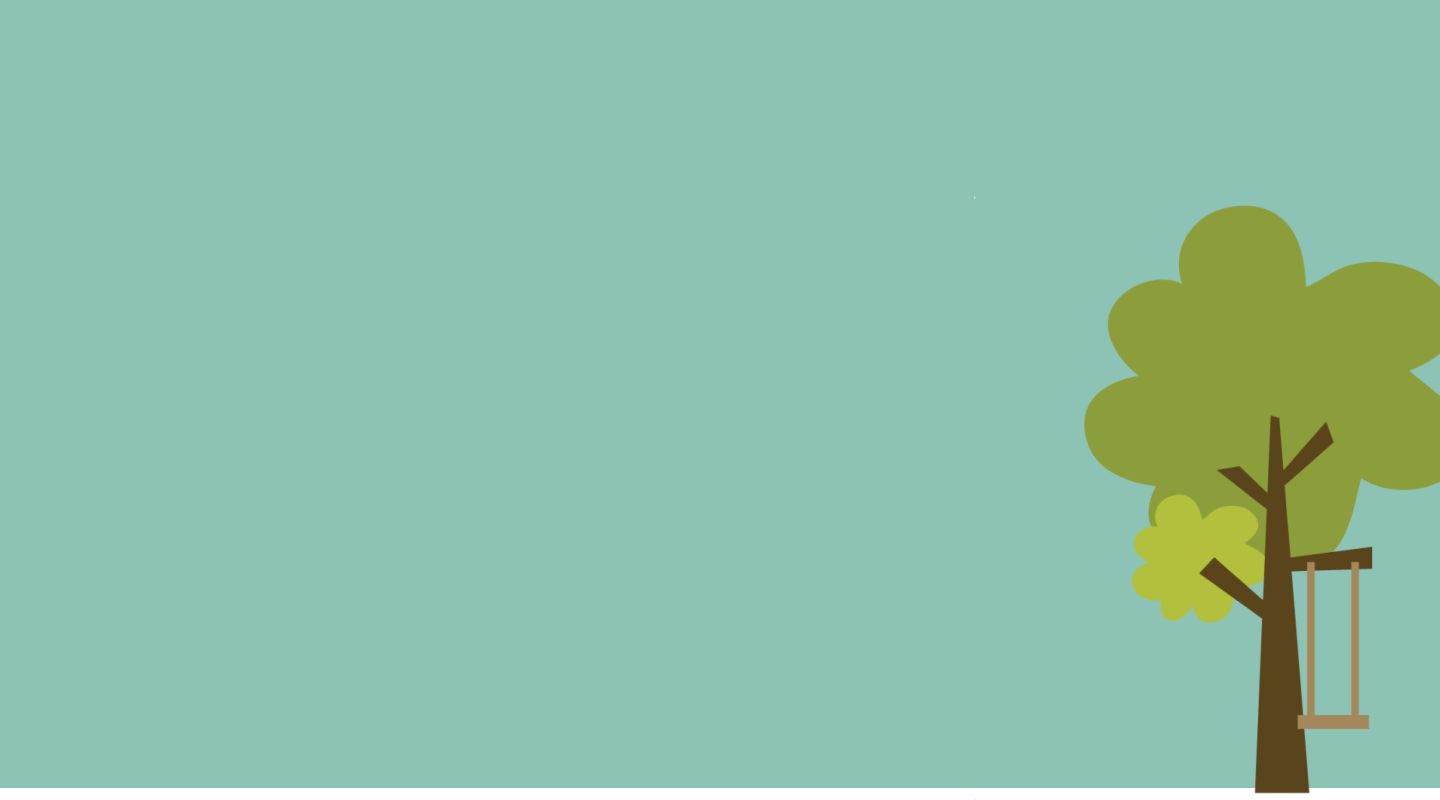
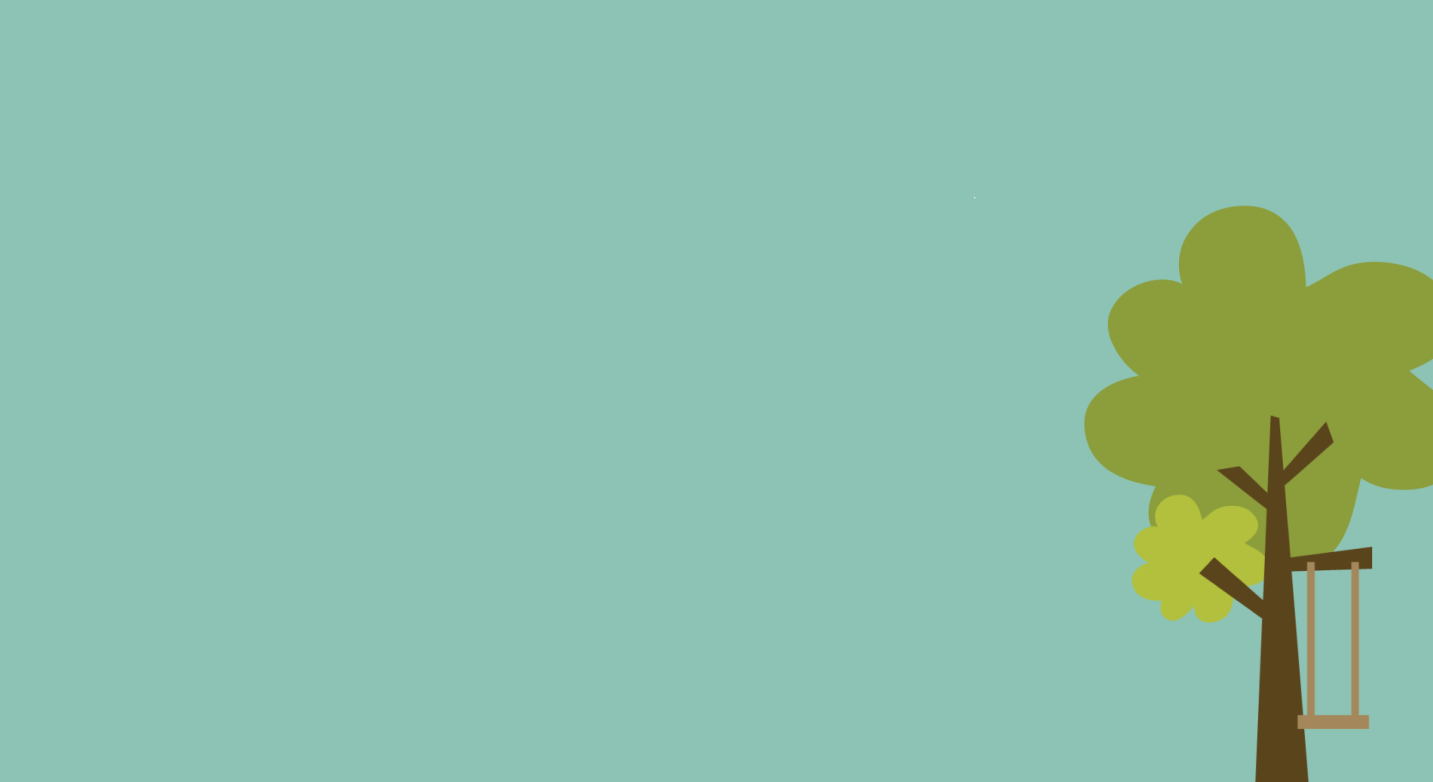
cal lon eligibilty bg add

diff --git a/car-lon-eligibilty.html b/car-lon-eligibilty.html
@@ -87,9 +87,12 @@
 
 
     <!-- ====== Banner Start ====== -->
-    <section id="car-lon-eligibilty-area">
+    <section id="car-lon-eligibilty-area" class="car-lon-area-bg">
+        <div class="multi-bg-img">
+            <img src="images/" alt="">
+        </div>
         <div class="container">
-            <h2 class="content__title">Check your Car Loan Eligibility</h2>
+            <h2 class="content__title">Check your <span style="color:#118161">Car Loan Eligibility</span></h2>
           </div>
           <div class="container overflow-hidden">
             <div class="multisteps-form">

diff --git a/css/style.css b/css/style.css
@@ -2266,7 +2266,7 @@ ul.remember-list li {
   z-index: 1;
 }
 #car-lon-eligibilty-area {
-  background: rgba(17, 129, 97, 0.48);
+  background: url(../images/card-eligi-bg.png);
   background-repeat: no-repeat;
   background-position: center right;
   background-size: cover;
